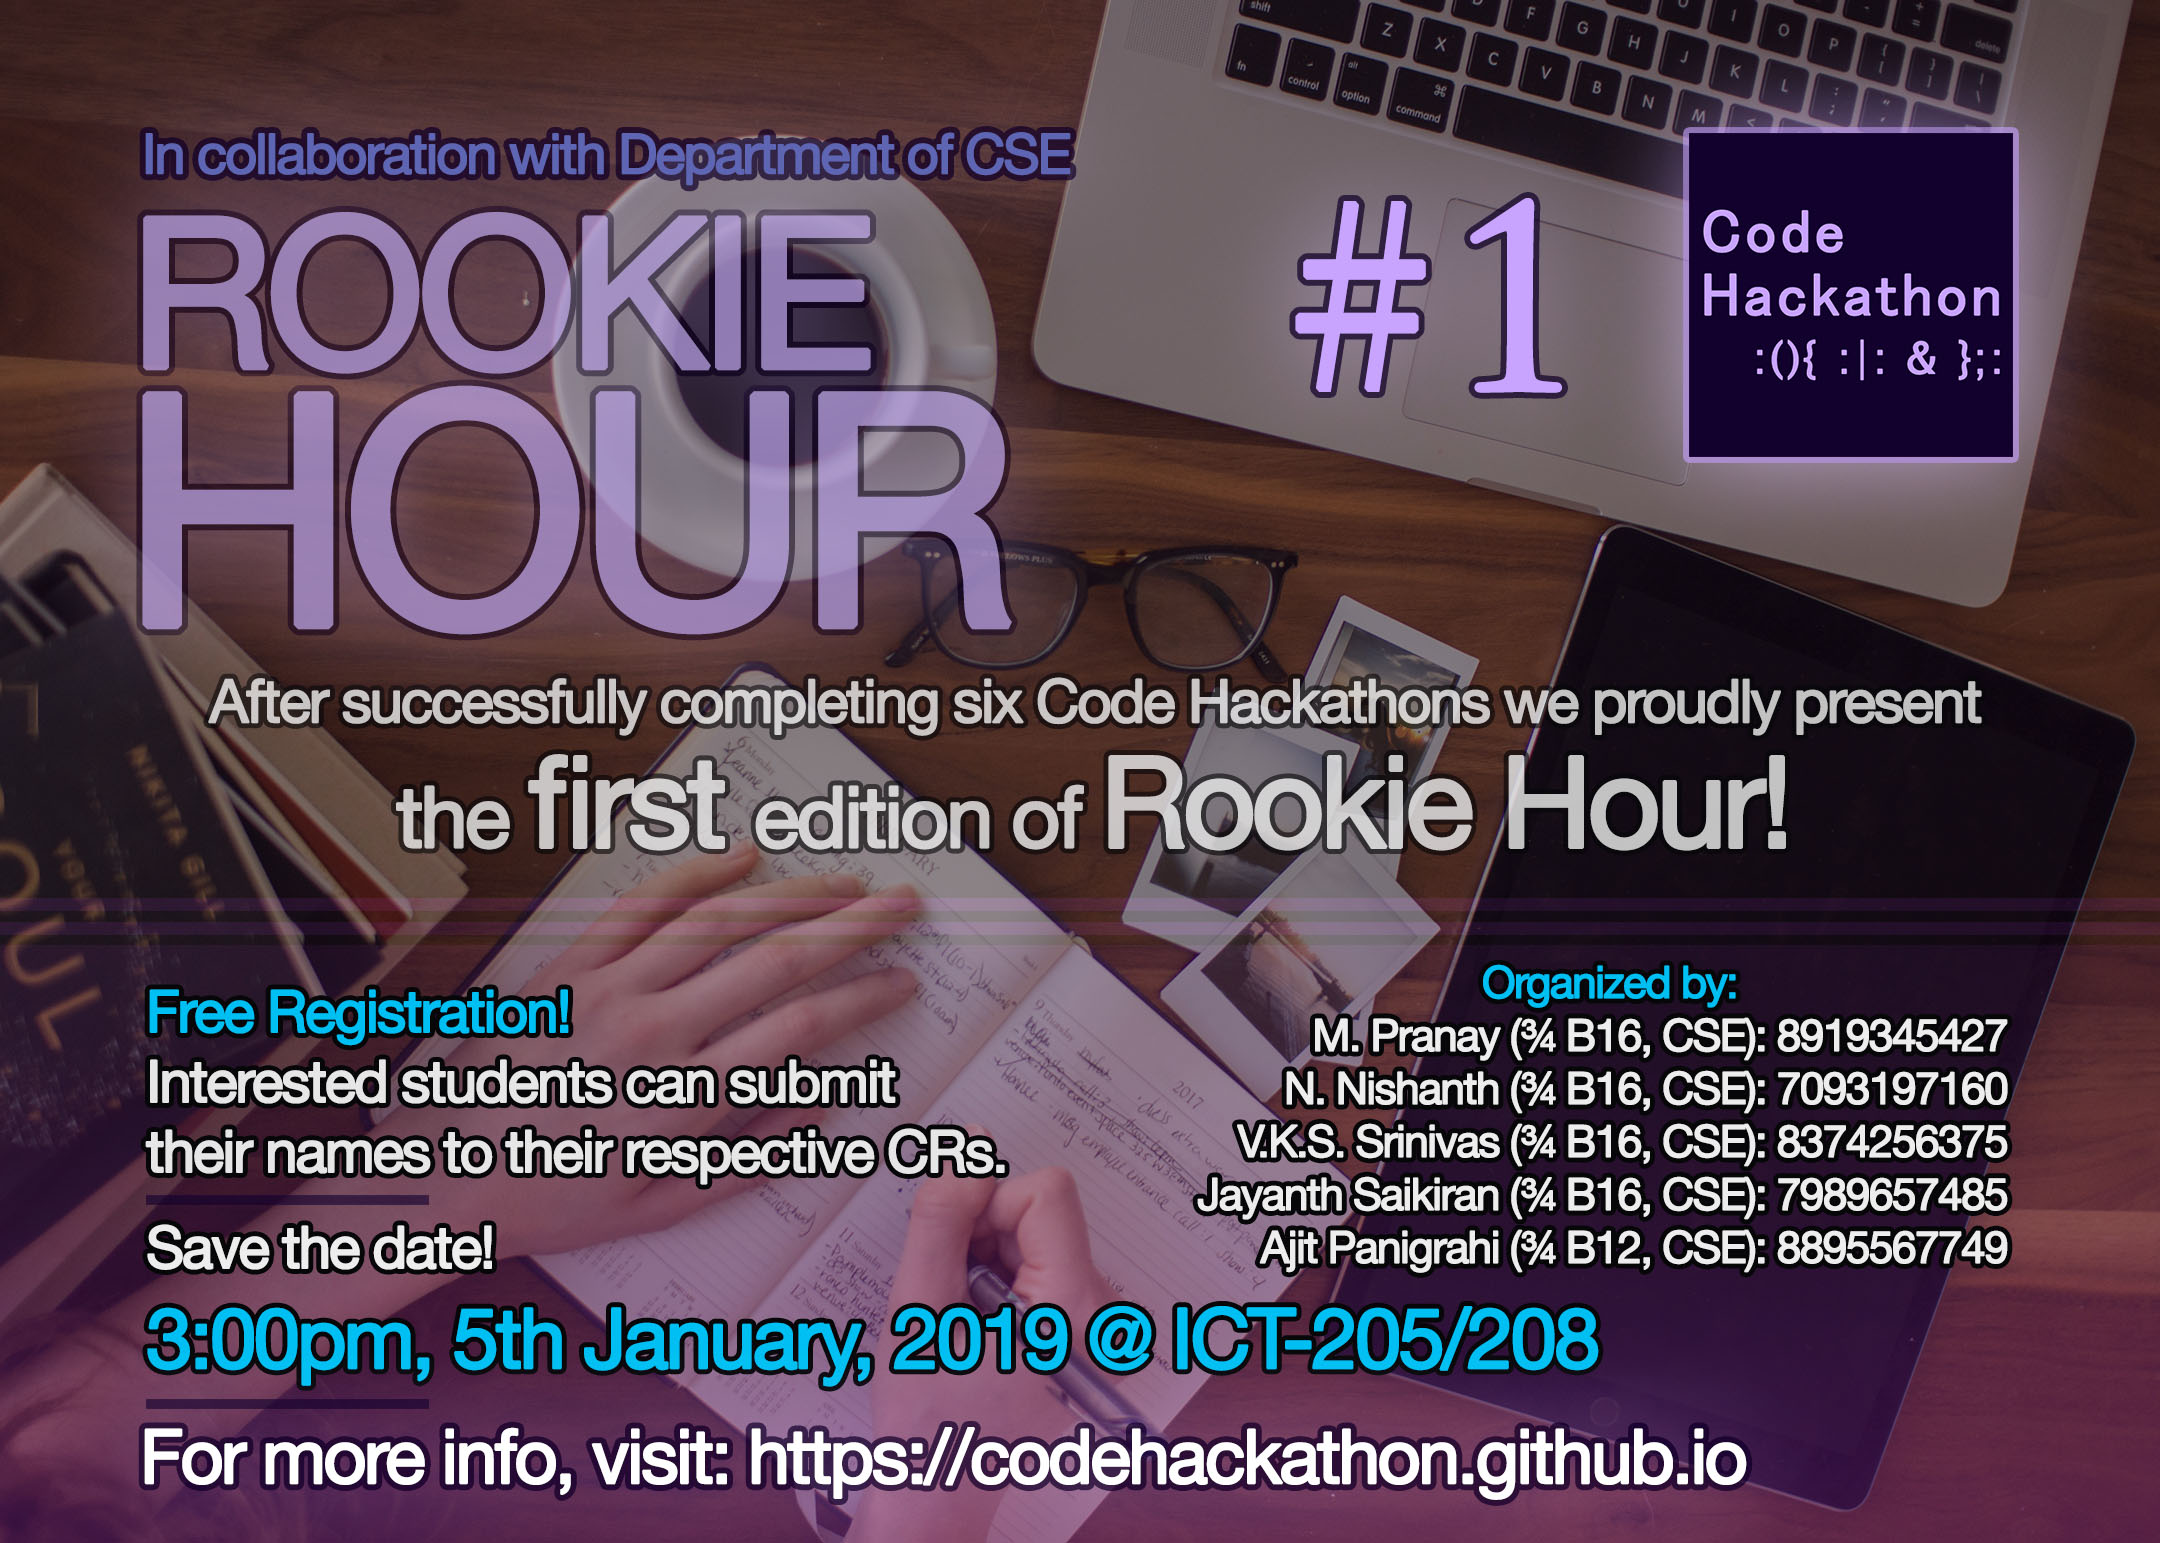
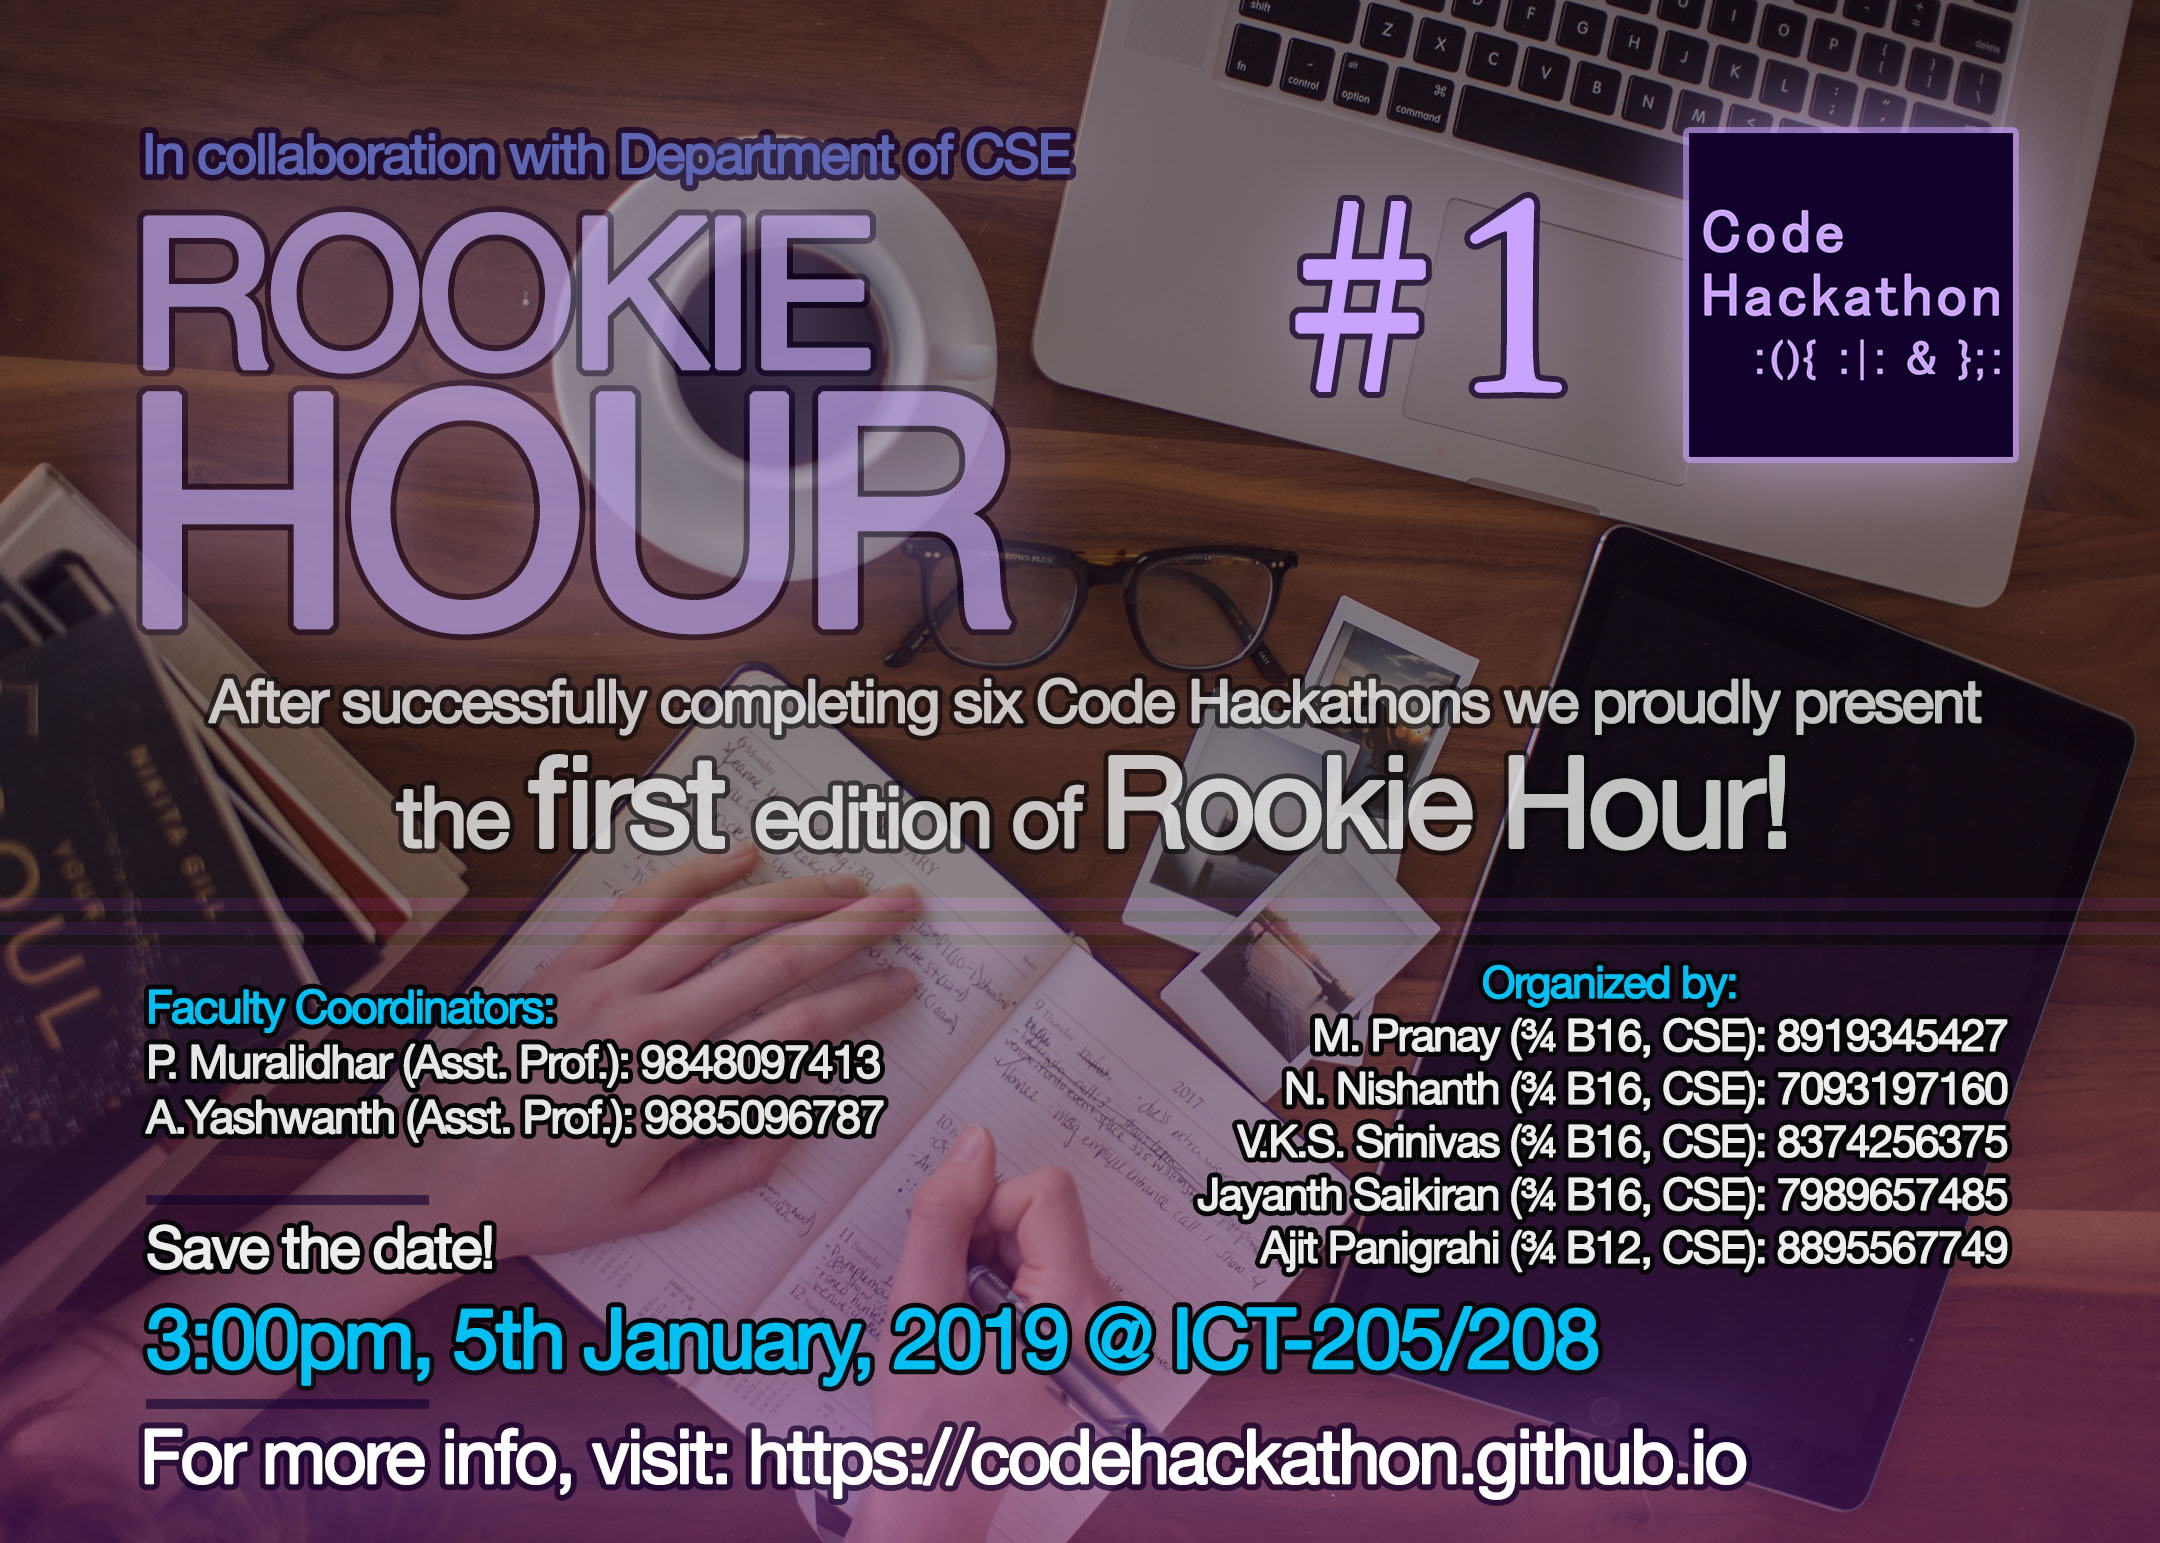
Rookie Hour #1 Fix
- Updated Poster with Faculty details
- Fixed 'Up next' line

Changed region(s): [[0.062, 0.6222, 0.4653, 0.7777]]

diff --git a/schedule.html b/schedule.html
@@ -77,7 +77,7 @@
 			<div class="row">
 				<div class="col-10 offset-1">
 					<h1>Schedule</h1>
-					<h3>Up next: Rookie Hour 1 (for first-years only), on 5<sup>th</sup> January, 2019 <a href="https://bit.ly/rh1-ch" class="badge badge-success" target="_blank">Register!</a></h3>
+					<h3><u>Up next:</u><br>Rookie Hour 1 (for first-year students only), on 5<sup>th</sup> January, 2019 <a href="https://bit.ly/rh1-ch" class="badge badge-success" target="_blank">Register!</a></h3>
 				</div>
 			</div>
 		</div>
